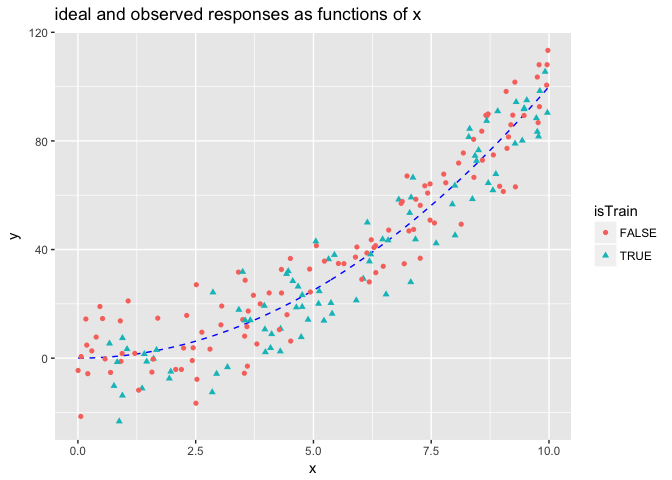
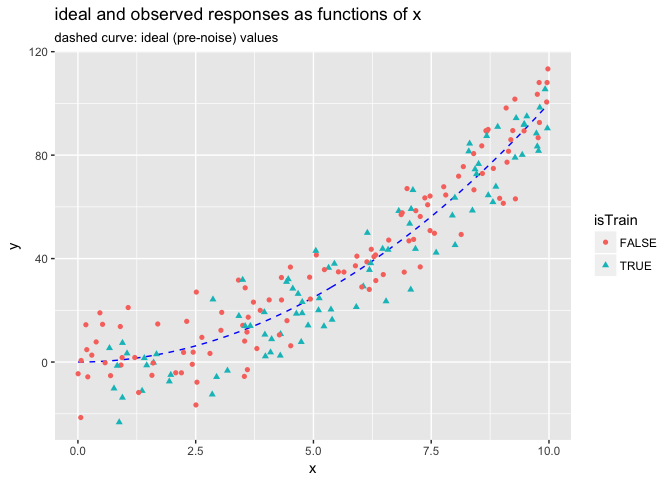
clean up a bit

diff --git a/extras/MonotoneCoder.md b/extras/MonotoneCoder.md
@@ -1,4 +1,4 @@
-Custom Level Coding in vtreat
+Isotone Coding in vtreat
 ================
 John Mount, Win-Vector LLC
 2017-09-30
@@ -7,7 +7,7 @@ John Mount, Win-Vector LLC
 suppressPackageStartupMessages(library("ggplot2"))
 source("isotone.R")
 
-
+# set up example data
 set.seed(23525)
 d <- data.frame(x = 10*runif(200))
 d$yIdeal <- d$x^2
@@ -18,13 +18,14 @@ ggplot(data=d, aes(x=x)) +
   geom_line(aes(y=yIdeal), color='blue', linetype=2) + 
   geom_point(aes(y=yObserved, color=isTrain, shape=isTrain)) +
   ylab('y') +
-  ggtitle("ideal and observed responses as functions of x")
+  ggtitle("ideal and observed responses as functions of x",
+          subtitle = "dashed curve: ideal (pre-noise) values")
 ```
 
 ![](MonotoneCoder_files/figure-markdown_github-ascii_identifiers/unnamed-chunk-1-1.png)
 
 ``` r
-customCoders = list('n.increasingV.num' = solveIsotonicProblemW )
+customCoders = list('n.NonDecreasingV.num' = solveNonDecreasing )
 treatments <- vtreat::designTreatmentsN( d[d$isTrain, , drop=FALSE], 
                                          'x', 'yObserved', 
                                         customCoders = customCoders,
@@ -32,16 +33,17 @@ treatments <- vtreat::designTreatmentsN( d[d$isTrain, , drop=FALSE],
 print(treatments$scoreFrame[, c('varName', 'rsq', 'sig', 'needsSplit'), drop=FALSE])
 ```
 
-    ##         varName       rsq          sig needsSplit
-    ## 1 x_increasingV 0.8889790 2.458159e-42       TRUE
-    ## 2       x_clean 0.8704983 1.725973e-39      FALSE
+    ##            varName       rsq          sig needsSplit
+    ## 1 x_NonDecreasingV 0.8889790 2.458159e-42       TRUE
+    ## 2          x_clean 0.8704983 1.725973e-39      FALSE
 
 ``` r
 dTreated <- vtreat::prepare(treatments, d)
-d$soln <- dTreated$x_increasingV
+d$soln <- dTreated$x_NonDecreasingV
 
 dTrain <- d[d$isTrain, , drop=FALSE]
 
+# good inference on train
 sum((dTrain$yIdeal - dTrain$soln)^2)
 ```
 
@@ -55,8 +57,8 @@ sum((dTrain$yIdeal - dTrain$yObserved)^2)
 
 ``` r
 dTest <- d[!d$isTrain, , drop=FALSE]
-xg <- pmax(min(dTrain$x), pmin(max(dTrain$x),dTest$x))
 
+# good performance on test
 sum((dTest$yIdeal - dTest$soln)^2)
 ```
 
@@ -75,11 +77,9 @@ ggplot(data=d, aes(x=x)) +
   geom_line(data= dTrain, aes(x=x, y=soln), color='darkgreen') +
   ylab('y') +
   ggtitle("ideal and observed responses as functions of x",
-          subtitle = "dashed line monotone fit")
+          subtitle = "solid path: monotone fit")
 ```
 
 ![](MonotoneCoder_files/figure-markdown_github-ascii_identifiers/unnamed-chunk-1-2.png)
 
-TODO: classification example.
-
-TODO: categorical input isontone example.
+Can also easily adapt to classification and to categorical inputs.
